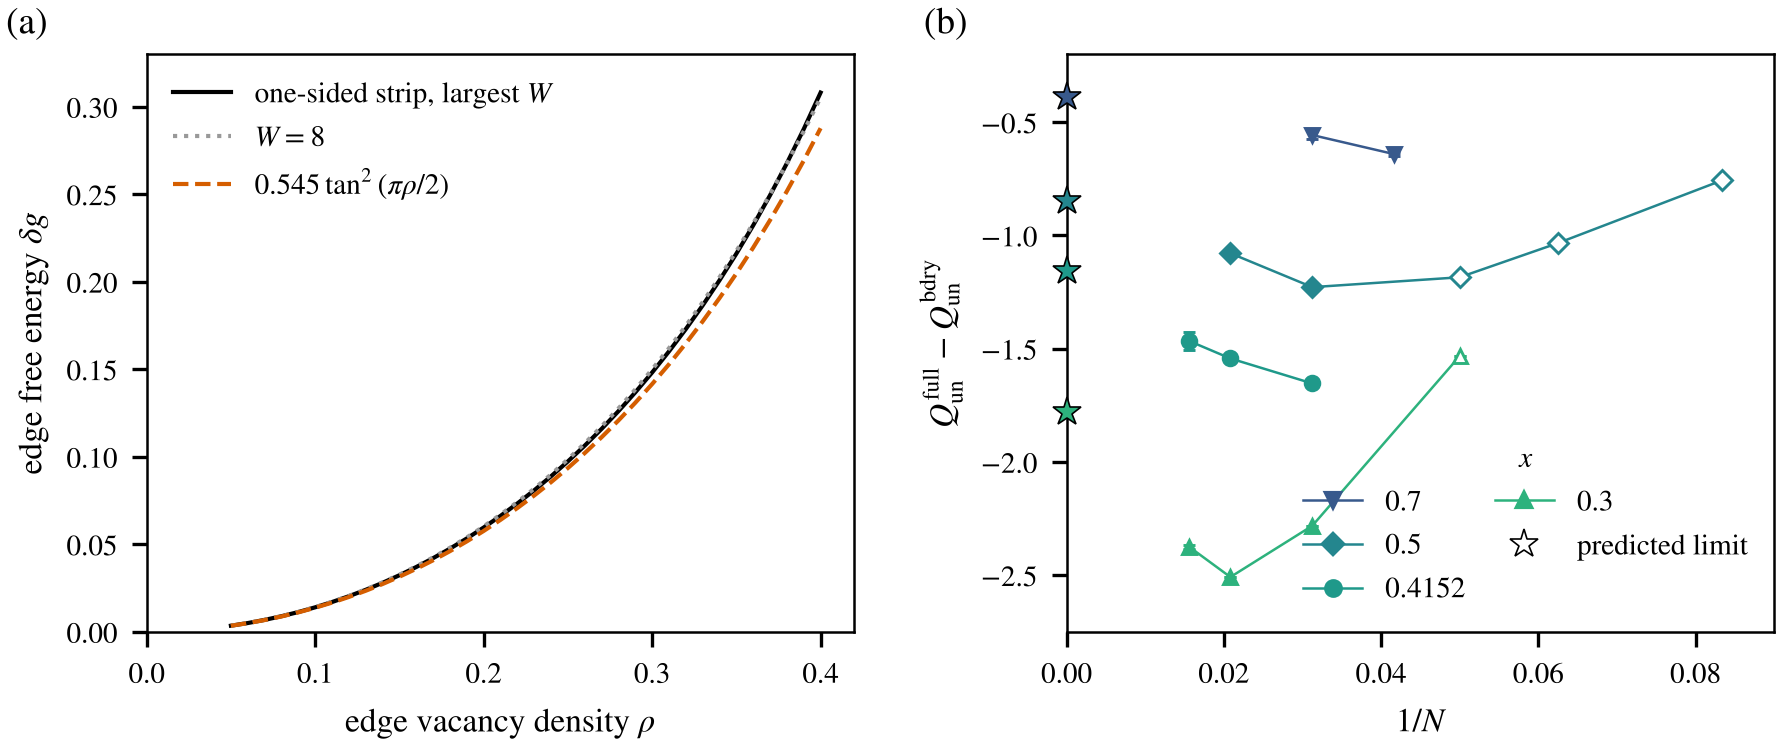
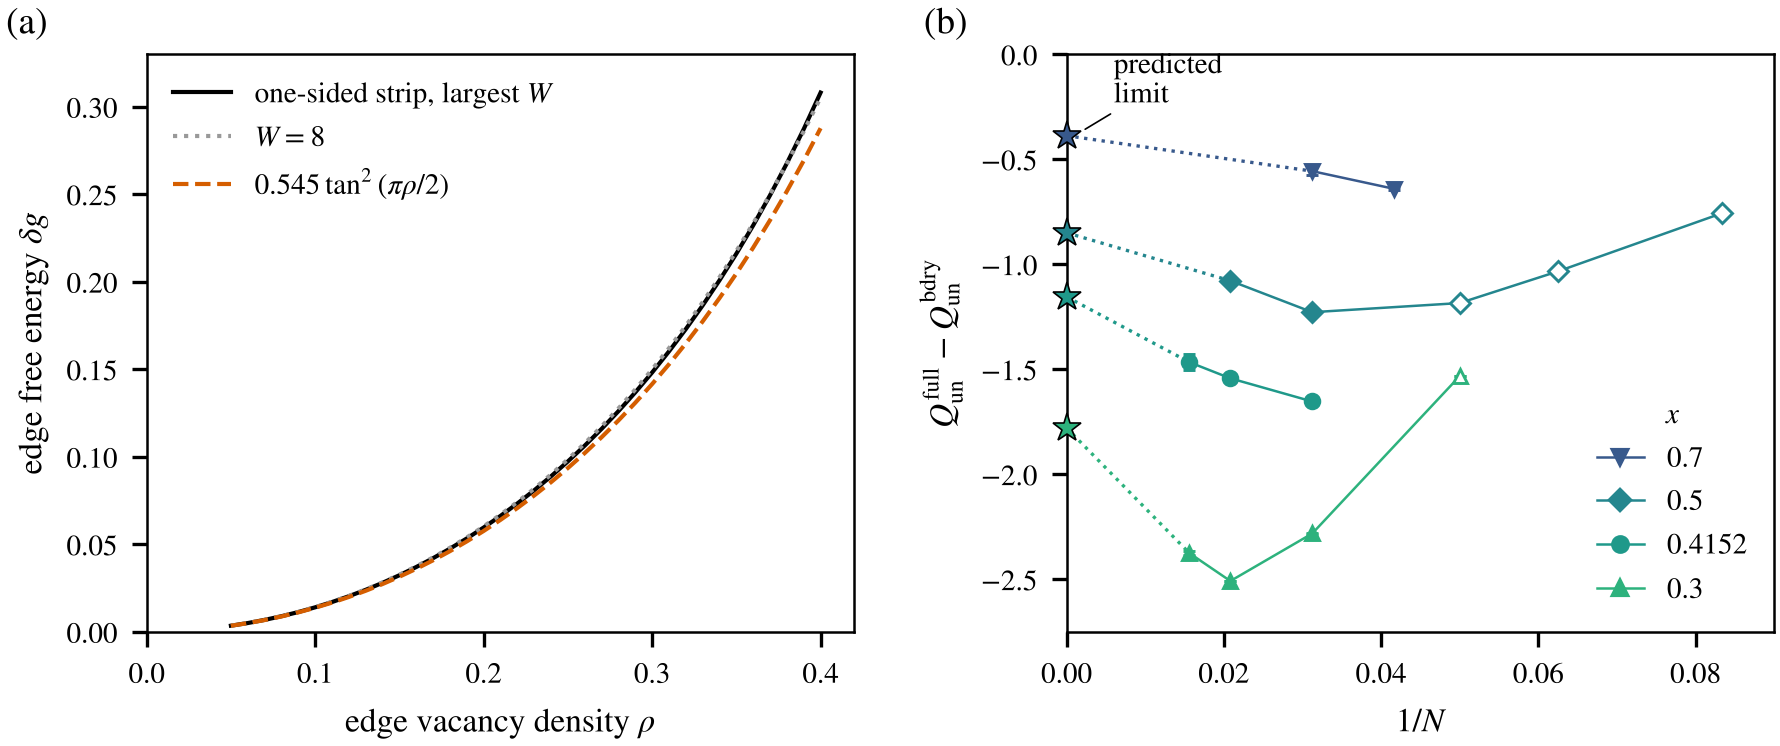
Fig. 7(b): dotted guides from the predicted limits to the largest size; legend off the data
Claude-Session: https://claude.ai/code/session_01FZuPgFiDrKu5WQzY5zLccF

diff --git a/manuscript/main.tex b/manuscript/main.tex
@@ -388,7 +388,7 @@ $x$ & $N$ & $\Qun^{\rm full}$ & $\Qun^{\rm bdry}$ & $D$ & $D_\infty$\\ \hline
 
 \begin{figure*}[t]
 \includegraphics[width=0.86\textwidth]{fig7_full_model.pdf}
-\caption{Vacancies on all cells change the uncompensated edge charge by a constant that is predicted from the free energy of the edge. (a) Free energy $\delta g$ gained per edge cell when adsorbed vacancies may leave the outermost cells, from one-sided strips of the largest available width ($10\le W\le16$, line) and of width $W=8$ (dotted), and the small-density form $0.545\tan^2(\pi\rho/2)$ (dashed). (b) Difference of the uncompensated edge charge between the full and the boundary model against $1/N$ at fixed $x$. Open symbols: exact; filled symbols: Monte Carlo, with errors from the scatter between independent runs (mostly smaller than the symbols). Stars at $1/N=0$: limits predicted by Eq.~\eqref{eq:Dinf}, which use no data from the diamond.}
+\caption{Vacancies on all cells change the uncompensated edge charge by a constant that is predicted from the free energy of the edge. (a) Free energy $\delta g$ gained per edge cell when adsorbed vacancies may leave the outermost cells, from one-sided strips of the largest available width ($10\le W\le16$, line) and of width $W=8$ (dotted), and the small-density form $0.545\tan^2(\pi\rho/2)$ (dashed). (b) Difference of the uncompensated edge charge between the full and the boundary model against $1/N$ at fixed $x$. Open symbols: exact; filled symbols: Monte Carlo, with errors from the scatter between independent runs (mostly smaller than the symbols). Stars at $1/N=0$: limits predicted by Eq.~\eqref{eq:Dinf}, which use no data from the diamond. Dotted lines join each predicted limit to the largest size as a guide to the eye; they are not fits.}
 \label{fig:full}
 \end{figure*}
 

diff --git a/figures/fig7_full_model.py b/figures/fig7_full_model.py
@@ -28,9 +28,12 @@ for x in (0.7, 0.5, 0.4152, 0.3):
     for N in Ns:
         d, e, s = sel[N]; a.errorbar([1 / N], [d], [e], fmt=MK[x], color=c, mfc="w" if s == "exact" else c, ms=3.5, mew=0.7, capsize=1.5, lw=0.7)
     a.plot([], [], MK[x] + "-", color=c, ms=3.5, lw=0.6, label=f"${x}$")
+    a.plot([0, 1 / Ns[-1]], [pred[x], sel[Ns[-1]][0]], ":", color=c, lw=0.8)      # guide to the eye, not a fit
     a.plot([0], [pred[x]], "*", color=c, ms=7, mec="k", mew=0.4, clip_on=False, zorder=5)
-a.plot([], [], "*", color="w", mec="k", mew=0.4, ms=7, label="predicted limit")
-a.set_xlim(0, 0.09); a.set_ylim(-2.75, -0.2); a.set_xlabel("$1/N$"); a.set_ylabel(r"$Q_{\rm un}^{\rm full}-Q_{\rm un}^{\rm bdry}$")
-a.legend(title="$x$", title_fontsize=7, loc="lower right", ncol=2, columnspacing=1.0)
+a.set_xlim(0, 0.09); a.set_ylim(-2.75, 0.0); a.set_xlabel("$1/N$"); a.set_ylabel(r"$Q_{\rm un}^{\rm full}-Q_{\rm un}^{\rm bdry}$")
+h, l = a.get_legend_handles_labels()
+a.legend(h[:4], l[:4], title="$x$", title_fontsize=7, loc="lower right", bbox_to_anchor=(1.0, 0.0), ncol=1, handlelength=1.6)
+a.annotate("predicted\nlimit", xy=(0.001, pred[0.7]), xytext=(0.006, -0.12), fontsize=7, ha="left", va="center", linespacing=0.9,
+           arrowprops=dict(arrowstyle="-", lw=0.4, shrinkA=0, shrinkB=3))
 panel(ax[0], "(a)", x=-0.14); panel(ax[1], "(b)", x=-0.14)
 save(fig, "fig7_full_model")
